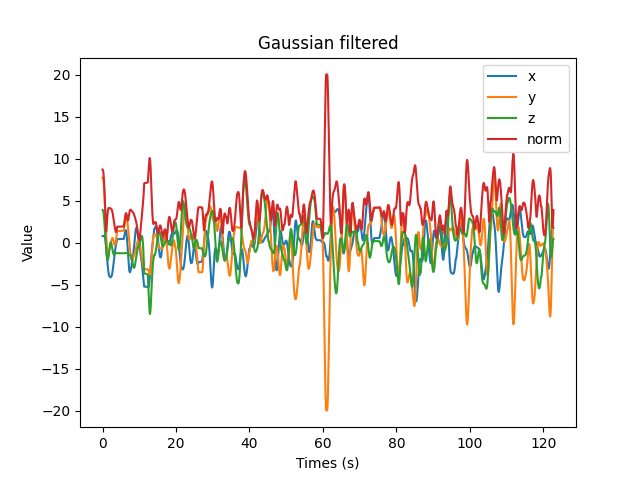
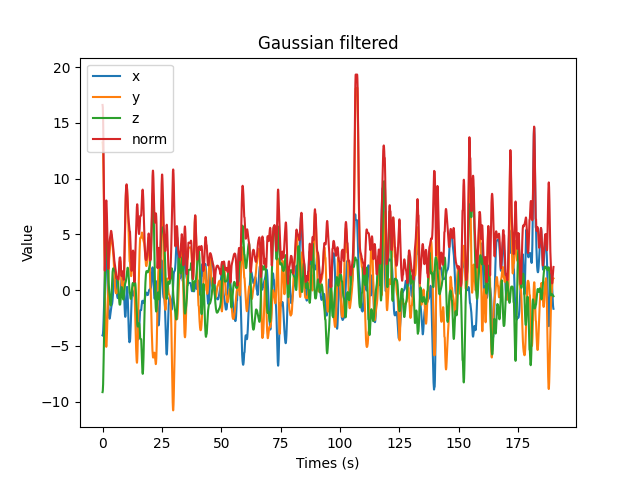
correct bugs

diff --git a/main.py b/main.py
@@ -6,8 +6,8 @@ import signalUtils as SIGNAL
 if __name__ == "__main__":
 
         #seq_to_read = "data/our_datas/non_gesture/Non-gesture_8_Lea.csv"
-        seq_to_read = "data/our_datas/gestures/processed/seq1.csv"
-        seq_to_labelise = "data/our_datas/gestures/raw/seq1.csv"
+        seq_to_read = "data/our_datas/gestures/processed/maud_1.csv"
+        seq_to_labelise = "data/our_datas/gestures/raw/maud_1.csv"
         normalised_timestamp_acc, x_gyros, y_gyros, z_gyros, x_accel, y_accel, z_accel, fs = CSV.reading_into_csv(
                 seq_to_read)
 
@@ -21,7 +21,7 @@ if __name__ == "__main__":
         #seq3 : sigma = 11, threshold = 0.3
         #seq2 : sigma = 50, threshold = 0.21
         #seq1 : sigma = 50, threshold = 0.2
-        threshold_multiplier = 0.2 # if too low (<0.4), detection check shows ungesture instead of gesture, if too high, gesture are too much segmented
+        threshold_multiplier = 0.21 # if too low (<0.4), detection check shows ungesture instead of gesture, if too high, gesture are too much segmented
 
         sigma = 50
 
@@ -31,11 +31,5 @@ if __name__ == "__main__":
 
         start_xaccel, end_xaccel, start_yaccel, end_yaccel, start_zaccel, end_zaccel = SIGNAL.all_calculations(
                 x_accel, y_accel, z_accel,
-                normalised_timestamp_acc, sigma, threshold_multiplier, true_mvmt, 101.36034736268958794910257398123)
+                normalised_timestamp_acc, sigma, threshold_multiplier, true_mvmt, fs)
 
-        """
-        start_xgyros, end_xgyros, start_ygyros, end_ygyros, start_zgyros, end_zgyros = SIGNAL.all_calculations(
-                x_gyros, y_gyros, z_gyros,
-                normalised_timestamp_acc, sigma, window_size,
-                envelopp_multiplier, threshold_multiplier)
-        """

diff --git a/graphUtils.py b/graphUtils.py
@@ -92,17 +92,14 @@ def plots_rectangles(timestamp, y_signals: List[Tuple[List[float],str]], segment
         line, = plt.plot(timestamp, y_signal[0], label=y_signal[1])
         lines.append(line)
         for start, end in zip(start_indices, end_indices):
-            start_sample = floor(start * fs)
-            end_sample = ceil(end * fs)
-            
+            start_sample = int(start * fs)
+            end_sample = int(end * fs)
             norm_gaussian_part = y_signal[0][start_sample:end_sample]
             min_y = min(norm_gaussian_part)
             max_y = max(norm_gaussian_part)
             rect = Rectangle((start, min_y), end - start, max_y - min_y, fill=False, edgecolor=line.get_color(), linewidth=3)
             ax.add_patch(rect)
             patches.append(rect)
-        
-    
         
     plt.legend()
     plt.title("Segmentation check")
@@ -117,11 +114,10 @@ def plot_checking(timestamp, y_signals, seg_start, seg_end, true_mvmt, fs):
     
     for i, (y_signal, start_indices, end_indices) in enumerate(zip(y_signals, seg_start, seg_end)):
         zeros = [max(y_signals[0][0])] * len(true_mvmt)
-        print(len(zeros), len(true_mvmt))
         axs[i].plot(timestamp, y_signals[i][0], label=y_signals[i][1])
         for start, end in zip(start_indices, end_indices):
-            start_sample = floor(start * fs)
-            end_sample = ceil(end * fs)
+            start_sample = int(start * fs)
+            end_sample = int(end * fs)
             
             norm_gaussian_part = y_signal[0][start_sample:end_sample]
             min_y = min(norm_gaussian_part)

diff --git a/mathsUtils.py b/mathsUtils.py
@@ -29,7 +29,6 @@ def simple_segmentation(timestamp, signal, sigma, threshold_multiplier):
 
     threshold = threshold_multiplier * max(abs_signal)
 
-    new_timestamp = list(range(0, len(signal)))
     # Find the indices of movement segments
     markers_begin, markers_end = find_bounds(timestamp, abs_signal, threshold)
     return signal_derivative, norm_gaussian, abs_signal, markers_begin, markers_end
@@ -70,8 +69,4 @@ def find_bounds(x, signal, threshold):
     
     if was_in_rect:
         markers_end.append(x[-1])
-        print("yes")
-            
-    print(markers_begin, markers_end)
-    print(len(markers_begin))
     return markers_begin, markers_end

diff --git a/signalUtils.py b/signalUtils.py
@@ -16,7 +16,6 @@ def all_calculations(x_accel, y_accel, z_accel, timestamp, sigma, threshold_mult
     norm_gaussian = MATH.compute_norm(xaccel_gaussian, yaccel_gaussian, zaccel_gaussian)
     threshold = threshold_multiplier * max(norm_gaussian)
 
-    new_timestamp = list(range(0, len(x_accel)))
     # Find the indices of movement segments
     markers_begin, markers_end = MATH.find_bounds(timestamp, norm_gaussian, threshold)
 

diff --git a/readingsUtils/csv_reading/csvUtils.py b/readingsUtils/csv_reading/csvUtils.py
@@ -29,7 +29,7 @@ def reading_into_csv(path):
         
             line_count += 1
 
-        diff_timestamps = normalised_timestamp[1] - normalised_timestamp[0]
+        diff_timestamps = (normalised_timestamp[-1] - normalised_timestamp[0]) / len(normalised_timestamp)
         fs = 1 / diff_timestamps
     return normalised_timestamp, x_accel, y_accel, z_accel, x_gyros, y_gyros, z_gyros, fs
 
